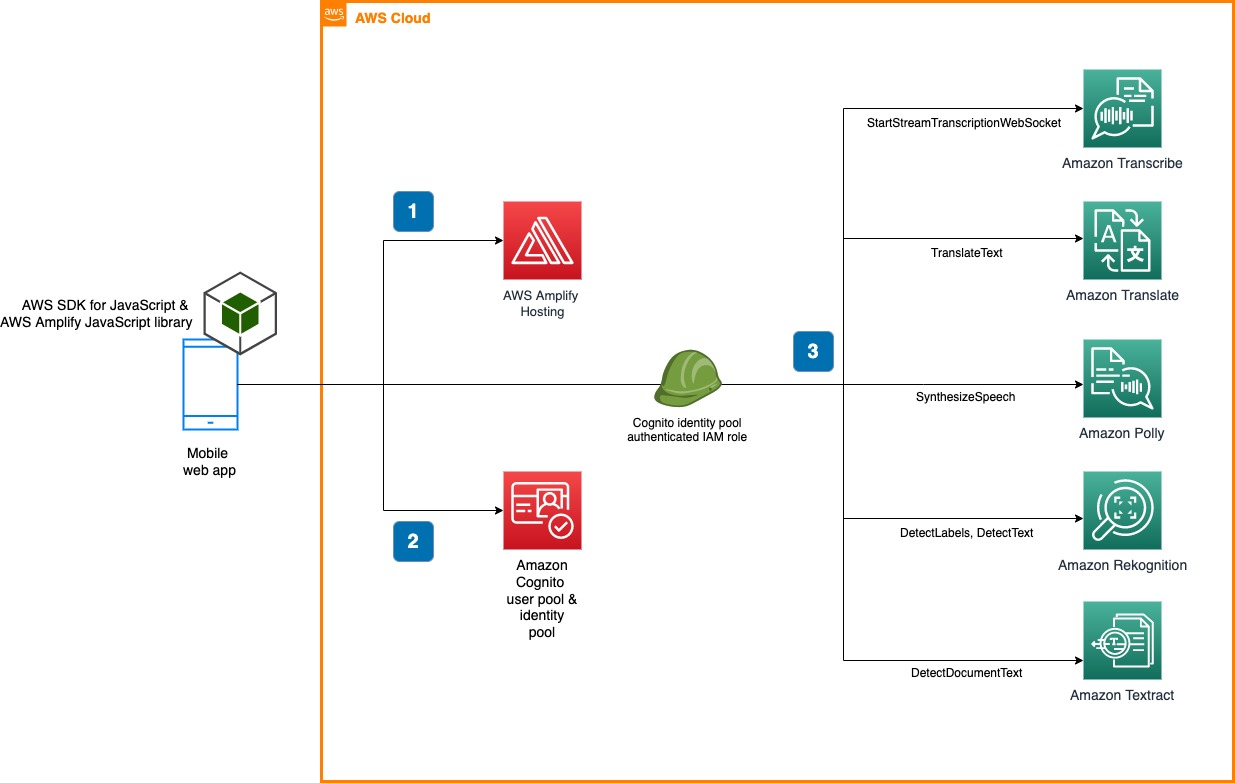
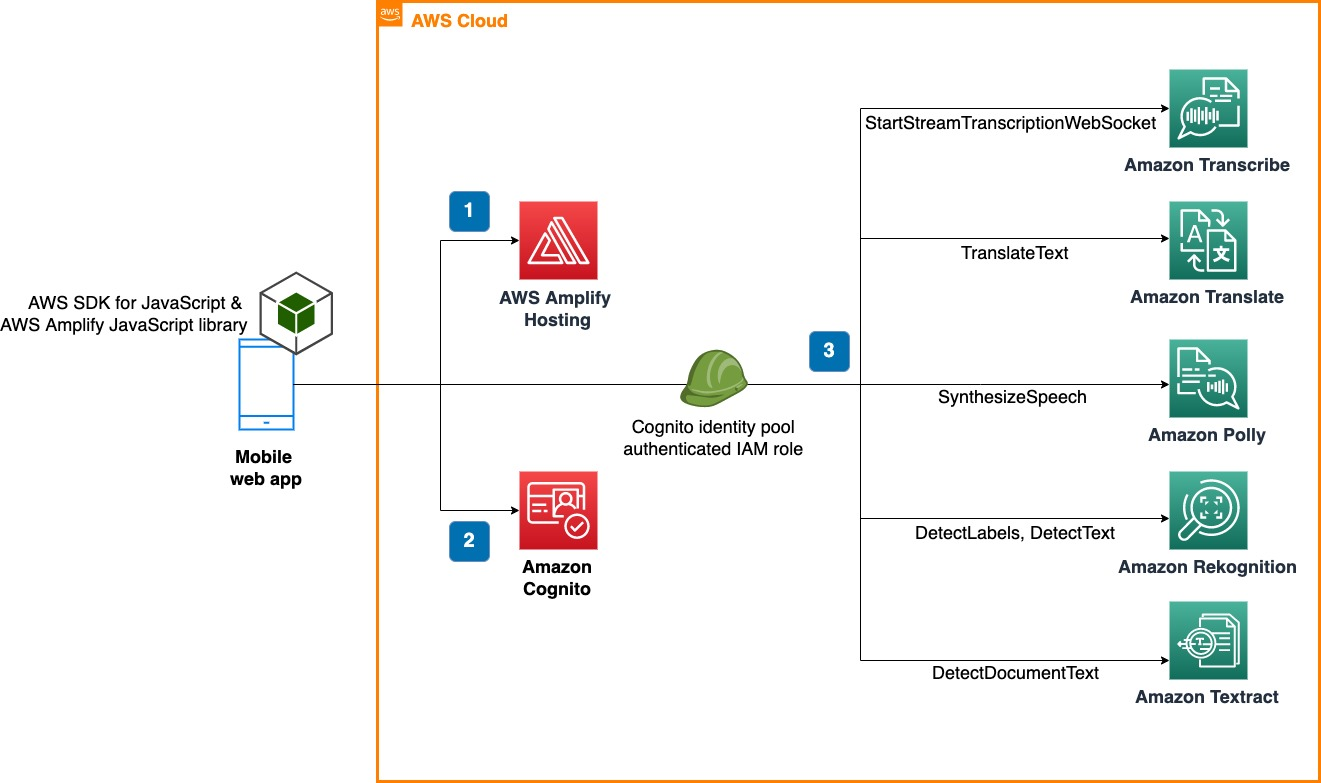
README and architecture diagram update

diff --git a/README.md b/README.md
@@ -1,5 +1,7 @@
 ## AWS AugmentAbility
 
+***A blog post about AWS AugmentAbility is now online!  To learn more, check [this link](https://aws.amazon.com/blogs/machine-learning/use-aws-ai-and-ml-services-to-foster-accessibility-and-inclusion-of-people-with-a-visual-or-communication-impairment/).***
+
 **AWS AugmentAbility** is a mobile web app which showcases 5 AWS AI services (Amazon Transcribe, Amazon Translate, Amazon Polly, Amazon Rekognition and Amazon Textract) and, at the same time, provides features that may benefit people with a visual or communication impairment, including difficulties in reading written text (text recognition), hearing (live transcription), speaking (text-to-speech), or having a conversation in a foreign language (voice-to-voice live translation).
 
 ### Main features
@@ -20,63 +22,20 @@
 ### Solution architecture
 ![Solution architecture](https://github.com/aws-samples/aws-augmentability/raw/main/images/architecture.jpg)
 
-## Phase 1: Pre-deployment steps
 
- 1. Create a [Cognito Identity Pool] and take note of the *Cognito Identity pool ID* (https://docs.aws.amazon.com/cognito/latest/developerguide/tutorial-create-identity-pool.html)
- 2. Navigate to *Identity and Access Management (IAM)* > *Roles*, find the *Unauth_Role* associated with the Cognito Identity Pool you created at step 1, and add the following inline policy to the role (change the value for the "aws:RequestedRegion" key to your preferred AWS region): 
+## Option 1: building and deploying AWS AugmentAbility to the AWS Amplify Console
 
-.
-
-    {
-        "Version": "2012-10-17",
-        "Statement": [
-            {
-                "Sid": "VisualEditor0",
-                "Effect": "Allow",
-                "Action": [
-                    "transcribe:StartStreamTranscriptionWebSocket",
-                    "translate:TranslateText",
-                    "comprehend:DetectDominantLanguage",
-                    "polly:SynthesizeSpeech",
-                    "rekognition:DetectText",
-                    "rekognition:DetectLabels",
-                    "textract:DetectDocumentText"
-                ],
-                "Resource": "*",
-                "Condition": {
-                    "StringEquals": {
-                        "aws:RequestedRegion": "eu-central-1"
-                    }
-                }
-            }
-        ] 
-    }
+Follow the steps described in [this blog post](https://aws.amazon.com/blogs/machine-learning/use-aws-ai-and-ml-services-to-foster-accessibility-and-inclusion-of-people-with-a-visual-or-communication-impairment/)
 
 
- 3. Clone the repository, create a file named "config.js" in the main folder, and paste the following code. Don't forget to replace INSERT_HERE_YOUR_COGNITO_IDENTITY_POOL with your *Cognito Identity pool ID*:
+## Option 2: building and deploying AWS AugmentAbility locally
 
-.
-
-    var appConfig={
-    'region' : 'eu-central-1',
-    'IdentityPoolId' : 'INSERT_HERE_YOUR_COGNITO_IDENTITY_POOL' }
- 
-
-## Phase 2, option 1: building and deploying locally
-
- 1. Complete Phase 1 (see above)
+ 1. Follow Step 1 and 2 (Create the Amazon Cognito user pool and identity pool, and grant permissions for accessing AWS AI services; Clone the GitHub repository and edit the configuration file) from [this blog post](https://aws.amazon.com/blogs/machine-learning/use-aws-ai-and-ml-services-to-foster-accessibility-and-inclusion-of-people-with-a-visual-or-communication-impairment/)
  2. run `npm install` (only first time)
  3. run `npm install --global local-web-server` (only first time)
  4. run `npm run-script build` (only first time, or in case of changes to JavaScript code)
  5. run `ws`
- 6. Open the index.html file in a browser
-
-
-## Phase 2, option 2: building and deploying to AWS Amplify Console
-
- 1. Complete Phase 1 (see above)
- 2. Deploy to the AWS Amplify Console (https://docs.aws.amazon.com/amplify/latest/userguide/getting-started.html). At Step 2a make sure to replace command `npm run build` with `npm run-script build`
-
+ 6. Before accessing the app for the first time, you have to set a new password for the user that has been automatically created during Step 1. You can find the link to the temporary login screen in the Outputs tab for the CloudFormation stack (field UserPoolLoginUrl). For this first sign-in, you use the user name you set up and the temporary password you received via email. After you set your new password, you’re ready to test the mobile web app by opening the index.html file in a browser.
 
 
 ## Acknowledgments and Credits
